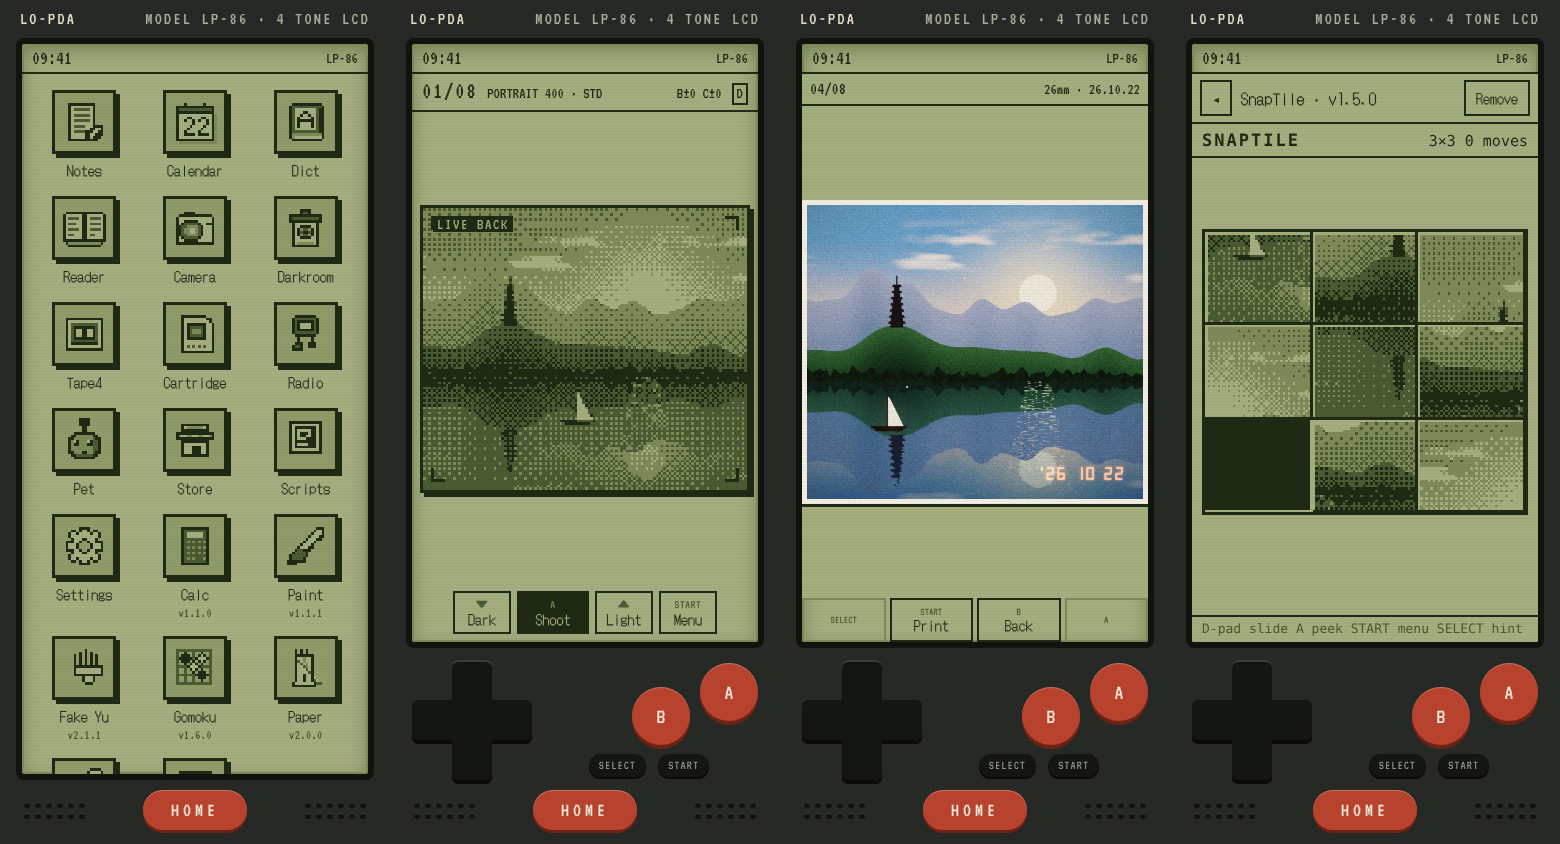
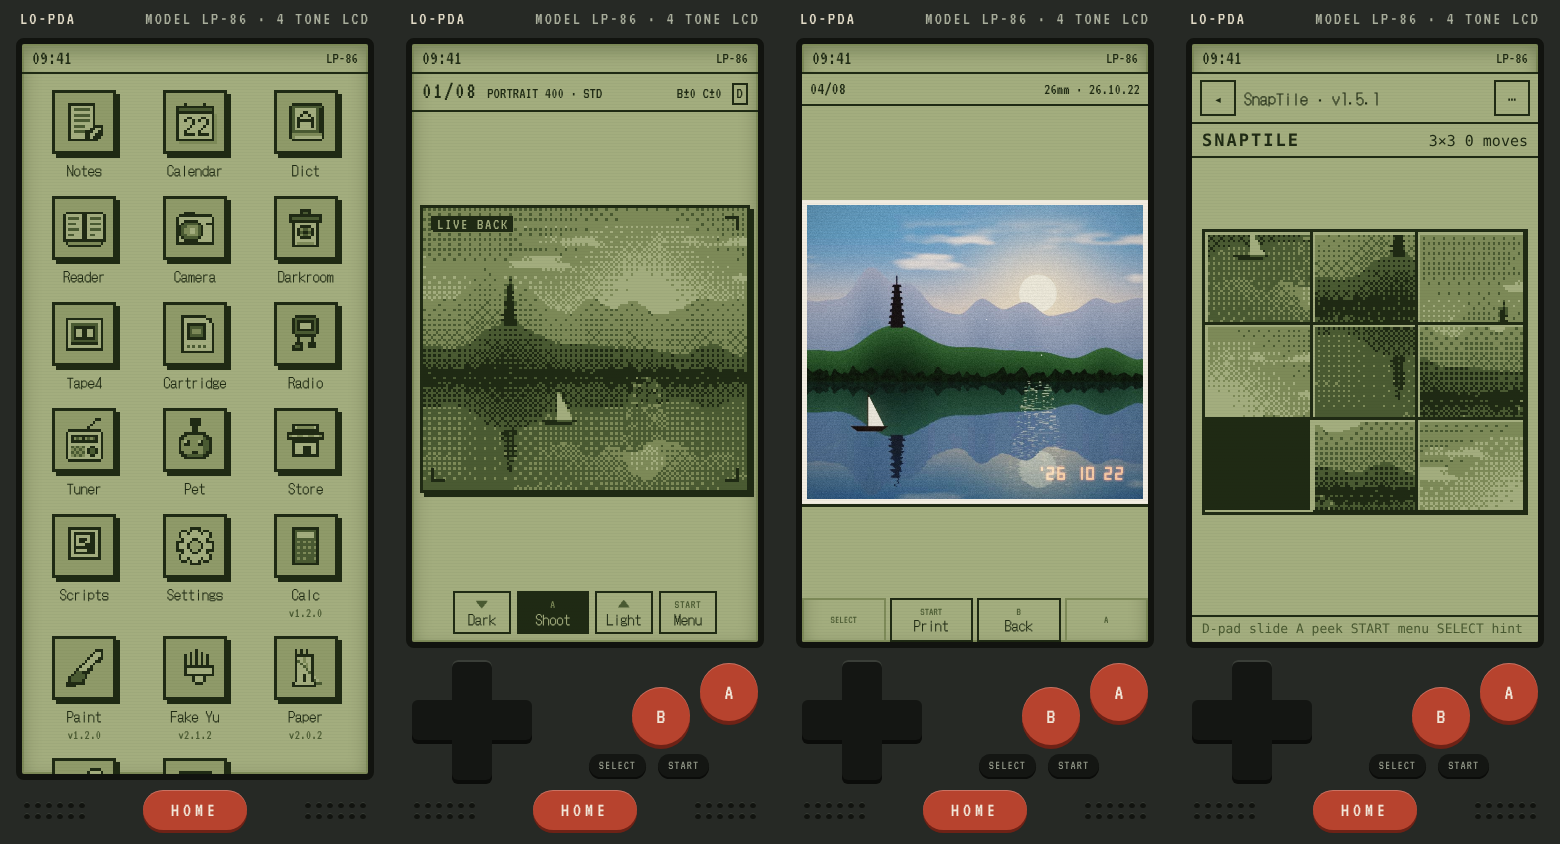
README and landing page: the Tuner, 24 apps, Rain Station's new story, fresh pictures
- README / README.zh: 24 store apps (Sensors added), Rain Station is now 晚点 (Fifty Minutes
  Late), Tape4's library has one demo tune since 1.0.2, more.png shows the Tuner instead of Gomoku.
- Landing page: the Tuner joins the built-ins row, Radio's caption mentions Gomoku, 24 apps.
- All pictures re-shot in both languages with the polished apps and the new home tile.
- readme-shots.mjs: a Tuner shot; every seeded stream answered by a silent WAV, so no shot
  reaches a broadcaster.
- launch-video.mjs: a tuner scene for the promo films (finger sweep through the hiss, then LEFT),
  on the same silent stand-in streams.

Claude-Session: https://claude.ai/code/session_01DFPvMzGz43GwUKL52tcqqk

diff --git a/index.html b/index.html
@@ -247,8 +247,8 @@ footer .mark{font-family:var(--f-lcd);font-size:22px;color:var(--on-case);margin
   <div class="shelf">
     <figure><div class="dev m i0" role="img" aria-label="The pet in its room, with a bed, a calendar and a shelf"></div><figcaption data-i18n="in.pet"><b>Pet</b>Lives in its room, sleeps at night.</figcaption></figure>
     <figure><div class="dev m i1" role="img" aria-label="Tape4's melody screen with a grid of notes"></div><figcaption data-i18n="in.tape"><b>Tape4</b>Four tracks on tape. Export a WAV.</figcaption></figure>
-    <figure><div class="dev m i2" role="img" aria-label="Radio: text and a small picture sent between two phones"></div><figcaption data-i18n="in.radio"><b>Radio</b>Phone to phone, through the air.</figcaption></figure>
-    <figure><div class="dev m i3" role="img" aria-label="A game of gomoku on a 15 by 15 board"></div><figcaption data-i18n="in.gomoku"><b>Gomoku</b>Play a friend over the same sound link.</figcaption></figure>
+    <figure><div class="dev m i2" role="img" aria-label="The Tuner: a radio dial with saved stations as frequencies, the needle on one"></div><figcaption data-i18n="in.tuner"><b>Tuner</b>Internet radio on a dial. Plays on with the phone locked.</figcaption></figure>
+    <figure><div class="dev m i3" role="img" aria-label="Radio: text and a small picture sent between two phones"></div><figcaption data-i18n="in.radio"><b>Radio</b>Phone to phone, through the air. Gomoku plays over it too.</figcaption></figure>
   </div>
   <div class="list">
     <div><h3 data-i18n="in.cart.h">Cartridge</h3><p data-i18n="in.cart.p">A Game Boy player. Bring your own ROMs.</p></div>
@@ -269,7 +269,7 @@ footer .mark{font-family:var(--f-lcd);font-size:22px;color:var(--on-case);margin
     <figure><div class="dev a i3" role="img" aria-label="The store's list of apps"></div></figure>
   </div>
   <div class="stats">
-    <div class="stat"><div class="n">23</div><div class="u" data-i18n="st.n1">apps in the store today</div></div>
+    <div class="stat"><div class="n">24</div><div class="u" data-i18n="st.n1">apps in the store today</div></div>
     <div class="stat"><div class="n">512 KB</div><div class="u" data-i18n="st.n2">the most an app may weigh</div></div>
     <div class="stat"><div class="n">0</div><div class="u" data-i18n="st.n3">network requests an app can make</div></div>
   </div>
@@ -345,7 +345,7 @@ PAD.music.play({ bpm: 120,
     "in.notes": "<b>记事本</b>今天的日记、标签、搜索。", "in.cal": "<b>万年历</b>农历、节气、放假安排。",
     "in.dict": "<b>词典</b>英汉双解，离线可用。", "in.reader": "<b>阅读器</b>TXT 和 EPUB，墨水屏式刷新。",
     "in.pet": "<b>宠物</b>住在自己的小房间里，晚上睡觉。", "in.tape": "<b>四轨机</b>四轨磁带录音，可以导出 WAV。",
-    "in.radio": "<b>电波台</b>手机对手机，声音隔空传。", "in.gomoku": "<b>五子棋</b>用同一条声音连线和朋友对下。",
+    "in.tuner": "<b>收音机</b>刻度盘上的网络电台，锁屏也接着响。", "in.radio": "<b>电波台</b>手机对手机，声音隔空传；五子棋也能用它对下。",
     "in.cart.h": "卡带机", "in.cart.p": "Game Boy 模拟器，卡带自备。",
     "in.scripts.h": "脚本", "in.scripts.p": "让 AI 写个小程序，粘贴进来，就能运行。在设置里接一条自己的 AI 线路（DeepSeek、Kimi、通义千问、硅基流动或 OpenRouter），它就当场写好；「改一改」再说一句就能改，旧版本先存好。四轨机也能和它一起编曲。",
     "in.backup.h": "备份", "in.backup.p": "整台掌机打包成一个 zip，换手机也能恢复。",

diff --git a/README.md b/README.md
@@ -47,7 +47,7 @@ The seven stocks on one photo, same roll and same development, only the stock ch
 | Dictionary | 词典 | English–Chinese, built in and offline (abridged ECDICT). Import StarDict dictionaries; a word book for review; A says the word aloud. |
 | Reader | 阅读器 | TXT and EPUB books, your own fonts, an e-ink style full refresh. Select text to look it up or quote it into Notes. Two public-domain books included. |
 | Pet | 宠物 | A small creature that hatches once, gets a name for life and lives in a room on the screen. It eats, plays, sleeps at night, grows up, and some days comes home with a souvenir for its shelf. It never dies. |
-| Tape4 | 四轨机 | A four-track tape machine: drums, bass, chords and melody, 64 patterns chained into a song, swing and tape colour, a mixer, a tape library with four demo tunes, WAV export. |
+| Tape4 | 四轨机 | A four-track tape machine: drums, bass, chords and melody, 64 patterns chained into a song, swing and tape colour, a mixer, a tape library with a demo tune, WAV export. |
 | Camera | 点阵相机 | Live dithered viewfinder, rolls of film, seven stocks, every lens on the phone. |
 | Darkroom | 冲洗店 | The film box: develop, view in colour, print, export and import negatives. |
 | Cartridge | 卡带机 | Plays black-and-white Game Boy files you supply, with the chin buttons. Saves can be exported and imported. No games are included. |
@@ -57,19 +57,19 @@ The seven stocks on one photo, same roll and same development, only the stock ch
 | Scripts | 脚本 | Your own small HTML/JS programs: one line to an AI line and it writes the program (or copy the prompt into any AI chat and paste the code back), then run it in the sandbox. Revise changes it with one more sentence; the old code is kept first, ten versions per script. |
 | Settings | 设置 | Sound, volume, language (中文 / English), which apps may use the sensors and camera, app saves, backup and restore of the whole device, AI lines (your own keys for DeepSeek, Kimi, Qwen, SiliconFlow or OpenRouter, like SIM cards), updates. |
 
-![The pet in its room, a demo tune in Tape4, a short exchange in Radio with a 16 × 16 picture of a boat, and Gomoku](docs/images/more.png)
+![The pet in its room, the demo tune in Tape4, the Tuner's dial on a station, and a short exchange in Radio with a 16 × 16 picture of a boat](docs/images/more.png)
 
 ## The app store
 
 ![Three store apps in play, Paper Tower, Fake Yu and Rain Station, and the store's list](docs/images/apps.png)
 
-Twenty-three apps today, all open source and all made for Lo-PDA:
+Twenty-four apps today, all open source and all made for Lo-PDA:
 
 | Kind | Apps |
 |---|---|
 | Games | Paper Tower (a ten-minute tower climb), Fake Yu (a one-key rhythm story), SnapTile (a sliding puzzle from your own photo), Marble (tilt the phone), Candles (blow into the mic), Gomoku (also a two-handheld match over sound), Mole Bop, Gold Dig (a sixty-second hook-and-haul mine), Pagoda (a 3D prologue), Sisyphus (a meditative climb with sixteen lines from Camus), Crossing (spell words on a wheel to fill a crossword), DailyBox (one crate-pushing puzzle a day), Klotski (the sliding-block escape), Foothill (seven days running a mountain diner) |
-| Story | Rain Station, a ten-minute visual novel |
-| Tools and toys | Calc and Paint (both preinstalled), Fortune, Kana, Sounds, VecDream, LuckyWay (hold the phone flat like a compass), SaveBook (a tally book, and the example of keeping old saves readable) |
+| Story | Rain Station: Fifty Minutes Late, a ten-minute visual novel (a rainy platform, a late train, your dad seeing you off to university) |
+| Tools and toys | Calc and Paint (both preinstalled), Fortune, Kana, Sounds, VecDream, LuckyWay (hold the phone flat like a compass), SaveBook (a tally book, and the example of keeping old saves readable), Sensors (live tilt, shake, heading and sound, the example for the sensor permissions) |
 
 Preinstalled apps are ordinary store apps: remove them and they stay removed; the store has them again.
 
@@ -164,7 +164,7 @@ Every change should take a decision away from the user, or at least not add one.
 no previews, one development per roll, frames you can't edit. The limits are the point.
 Why things are the way they are: [`docs/decisions.md`](docs/decisions.md).
 
-<sub>The screenshots were made in a desktop browser by `tools/readme-shots.mjs` (`--lang=zh` for the Chinese ones), with the camera fed a lake drawn in code. The Radio shot is two tabs of one browser talking through a stand-in for the sound link.</sub>
+<sub>The screenshots were made in a desktop browser by `tools/readme-shots.mjs` (`--lang=zh` for the Chinese ones), with the camera fed a lake drawn in code. The Tuner's streams are a silent stand-in, and the Radio shot is two tabs of one browser talking through a stand-in for the sound link.</sub>
 
 ## License
 
